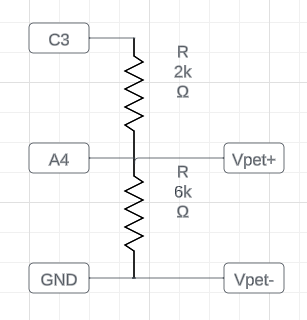
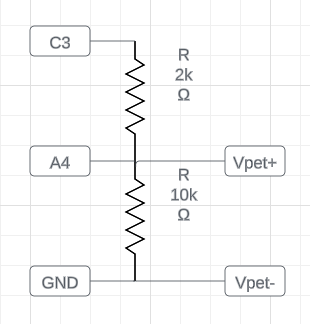
Update resistor values

diff --git a/README.md b/README.md
@@ -24,7 +24,7 @@ You will need to construct a circuit similar to the A-Com circuit described in t
 
 ![Schematic](screenshots/flipper_vpet_circuit.png)
 
-Pin C3 - 2k resistor - Pin A4 - 6k resistor - Pin GND
+Pin C3 - 2k resistor - Pin A4 - 10k resistor - Pin GND
 
 Pin A4 - VPet+
 
